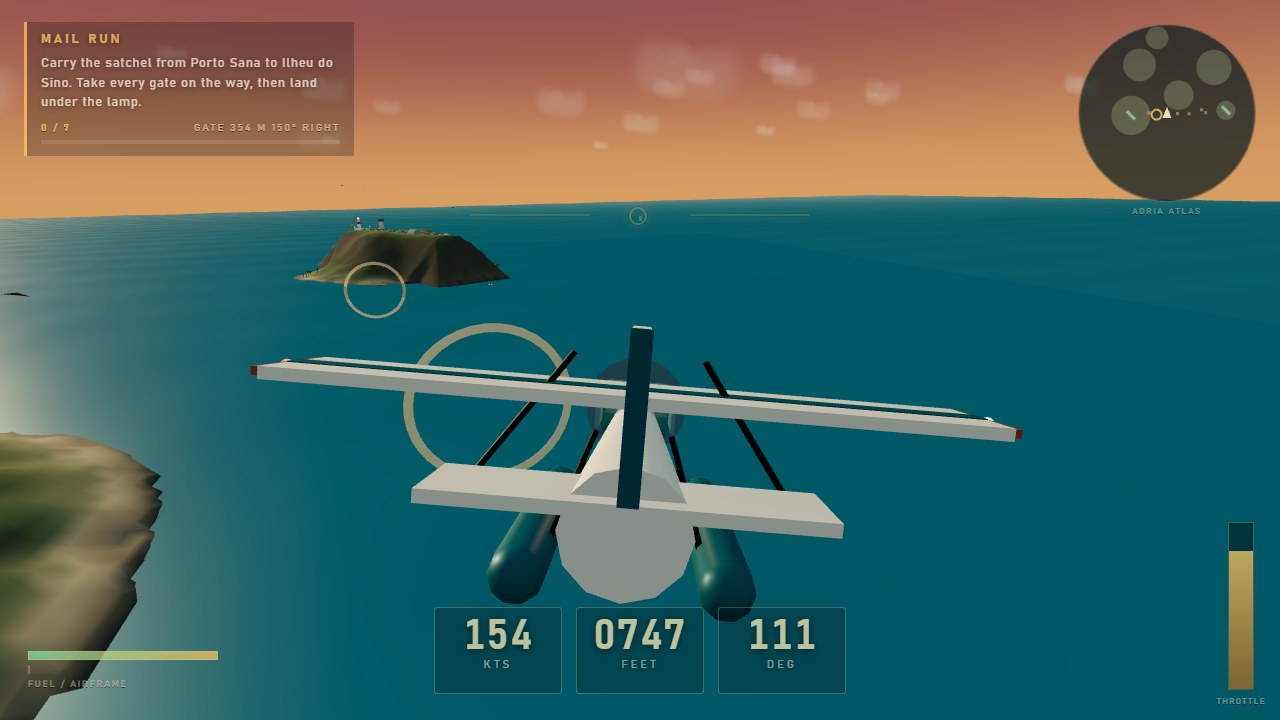
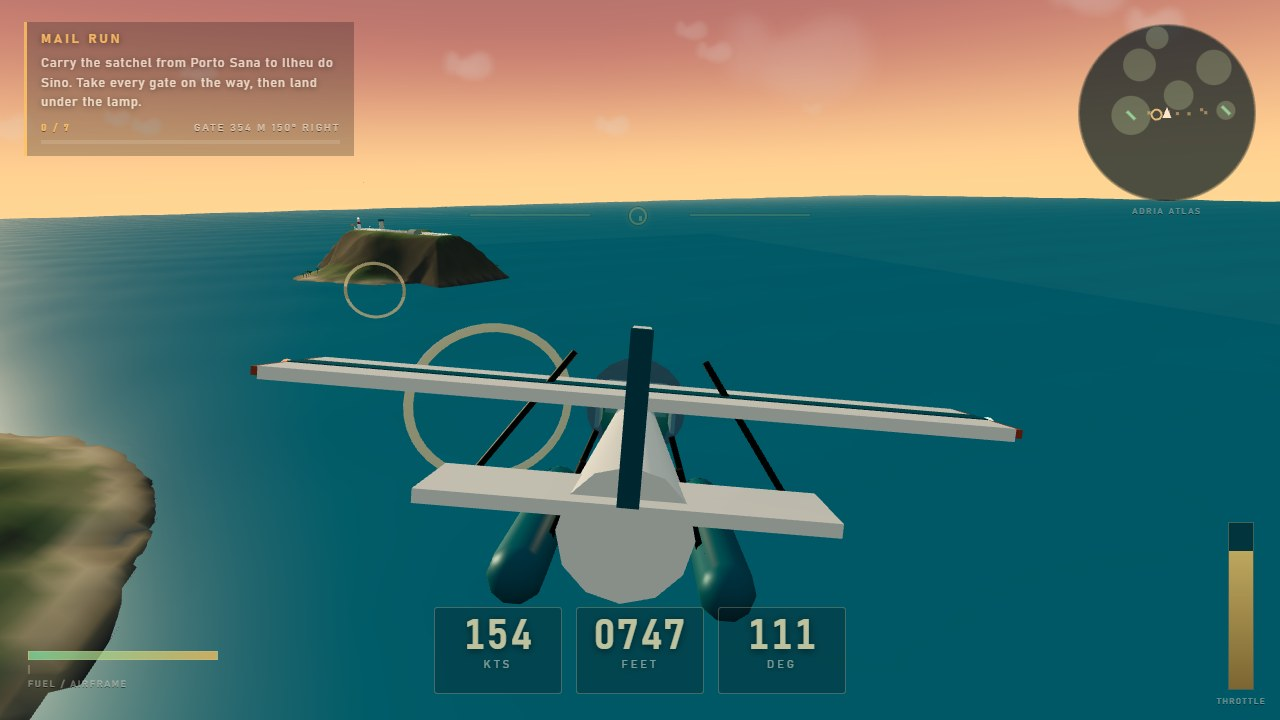
Light the strip: graded apron reads against the sky instead of into shadow

diff --git a/game/src/terrain/buildIslands.js b/game/src/terrain/buildIslands.js
@@ -117,12 +117,14 @@ function buildAirstrip(strip) {
   // low final, and the graded ground does the work at the edges.
   const asphalt = new THREE.Mesh(
     new THREE.PlaneGeometry(strip.width, strip.length),
-    new THREE.MeshStandardMaterial({ color: '#2c3033', roughness: 0.95 }),
+    // Mid grey with a little self-light: at golden hour a dark asphalt sheet went to near black
+  // and the strip stopped separating from the shadowed ground in front of it.
+    new THREE.MeshStandardMaterial({ color: '#878d92', roughness: 0.78, emissive: '#3a3f42', emissiveIntensity: 0.85, metalness: 0.08 }),
   );
   asphalt.rotation.x = -Math.PI / 2;
   asphalt.position.y = 0.04;
   // Gravel shoulders, so the asphalt edge is broken by a strip of grade rather than a hard line.
-  const shoulder = new THREE.MeshStandardMaterial({ color: '#6d6552', roughness: 1 });
+  const shoulder = new THREE.MeshStandardMaterial({ color: '#a49878', roughness: 1, emissive: '#3a362a', emissiveIntensity: 0.9 });
   for (const side of [-1, 1]) {
     const grade = new THREE.Mesh(new THREE.PlaneGeometry(5, strip.length), shoulder);
     grade.rotation.x = -Math.PI / 2;
@@ -148,7 +150,7 @@ function buildAirstrip(strip) {
   }
 
   // Threshold piano keys and the designator at each end, so the strip reads as a runway from the air.
-  const paint = new THREE.MeshStandardMaterial({ color: '#f7f1dc', emissive: '#6b6250', emissiveIntensity: 0.5, roughness: 0.8 });
+  const paint = new THREE.MeshStandardMaterial({ color: '#fdfaf0', emissive: '#fff4dc', emissiveIntensity: 1.15, roughness: 0.7 });
   for (const end of [-1, 1]) {
     for (let i = 0; i < 5; i++) {
       const key = new THREE.Mesh(new THREE.BoxGeometry(3, 0.24, 16), paint);
@@ -176,6 +178,18 @@ function buildAirstrip(strip) {
     number.rotation.z = end > 0 ? Math.PI : 0;
     number.position.set(0, 0.18, end * (strip.length / 2 - 38));
     group.add(number);
+  }
+
+  // A wash of warm light over each threshold: the touchdown zone should be the brightest thing
+  // on the ground, or the strip sinks into the hill it is cut into.
+  for (const end of [-1, 1]) {
+    const pool = new THREE.Mesh(
+      new THREE.PlaneGeometry(strip.width + 26, 150),
+      new THREE.MeshBasicMaterial({ color: '#ffdda6', transparent: true, opacity: 0.3, blending: THREE.AdditiveBlending, depthWrite: false }),
+    );
+    pool.rotation.x = -Math.PI / 2;
+    pool.position.set(0, 0.07, end * (strip.length / 2 - 62));
+    group.add(pool);
   }
 
   // PAPI bars off the threshold: two white, two red, the way a real approach reads.

diff --git a/game/src/shots.js b/game/src/shots.js
@@ -54,21 +54,19 @@ export const SHOTS = {
     const pad = airstripPad(strip);
     const heading = strip.heading;
     // Approach from whichever end runs downhill to the sea, so the strip reads against water.
-    const endA = new THREE.Vector3(strip.x + Math.sin(heading) * (strip.length / 2 + 26), 0, strip.z + Math.cos(heading) * (strip.length / 2 + 26));
-    const endB = new THREE.Vector3(strip.x - Math.sin(heading) * (strip.length / 2 + 26), 0, strip.z - Math.cos(heading) * (strip.length / 2 + 26));
+    const endA = new THREE.Vector3(strip.x + Math.sin(heading) * (strip.length / 2 + 60), 0, strip.z + Math.cos(heading) * (strip.length / 2 + 60));
+    const endB = new THREE.Vector3(strip.x - Math.sin(heading) * (strip.length / 2 + 60), 0, strip.z - Math.cos(heading) * (strip.length / 2 + 60));
     const from = groundAt(endA.x, endA.z) < groundAt(endB.x, endB.z) ? endA : endB;
     // High enough on the glideslope to see the apron and pitch down over it, so the dash stays
     // along the bottom edge instead of owning the foreground.
-    // Low on the flare, not high on the final: at 19 m the strip read as a diagram, at 9 m it
-    // reads as the last few seconds of an approach.
-    from.y = pad + 9;
+    from.y = pad + 19;
     // Aim left of the centreline and hold a flare attitude, so the frame is off-axis and nose-up
     // rather than a symmetrical diagram of a runway.
-    const to = new THREE.Vector3(strip.x - Math.cos(heading) * 9, pad + 26, strip.z + Math.sin(heading) * 9).lerp(from, 0.62);
-    const pose = aim(from, to, { roll: 0.06, pitch: 0.16 });
+    const to = new THREE.Vector3(strip.x, pad + 2, strip.z).lerp(from, 0.4);
+    const pose = aim(from, to, { roll: 0.04, pitch: -0.02 });
     // No course rings in this frame: the strip is the subject, and a ring over the hill only
     // mottles the approach.
-    return { ...pose, speed: 44, throttle: 0.34, camera: 'cockpit', kind: 'medevac', rings: false };
+    return { ...pose, speed: 56, throttle: 0.46, camera: 'cockpit', kind: 'medevac', rings: false };
   },
 
   // The caldera run: low over the ash with the gate ahead and flak hanging in the air.

diff --git a/game/src/render/scene.js b/game/src/render/scene.js
@@ -24,8 +24,8 @@ function skyDome() {
     uniforms: {
       top: { value: new THREE.Color('#2b6b91') },
       mid: { value: new THREE.Color('#a8a3ae') },
-      rose: { value: new THREE.Color('#cf9a94') },
-      low: { value: new THREE.Color('#e6c9a6') },
+      rose: { value: new THREE.Color('#e2b2aa') },
+      low: { value: new THREE.Color('#f6e2c2') },
     },
     vertexShader: `
       varying float vH;
@@ -43,6 +43,9 @@ function skyDome() {
         c = mix(c, mid, smoothstep(0.1, 0.7, h));
         c = mix(c, top, smoothstep(0.42, 0.95, h));
         c += vec3(0.06, 0.035, 0.0) * (1.0 - smoothstep(-0.04, 0.2, h));
+        // A lift through the low haze so the horizon band stays the brightest part of the frame
+        // even when the ground in front of it is lit.
+        c += vec3(0.05, 0.044, 0.036) * (1.0 - smoothstep(0.08, 0.55, h));
         gl_FragColor = vec4(c, 1.0);
       }`,
   });
